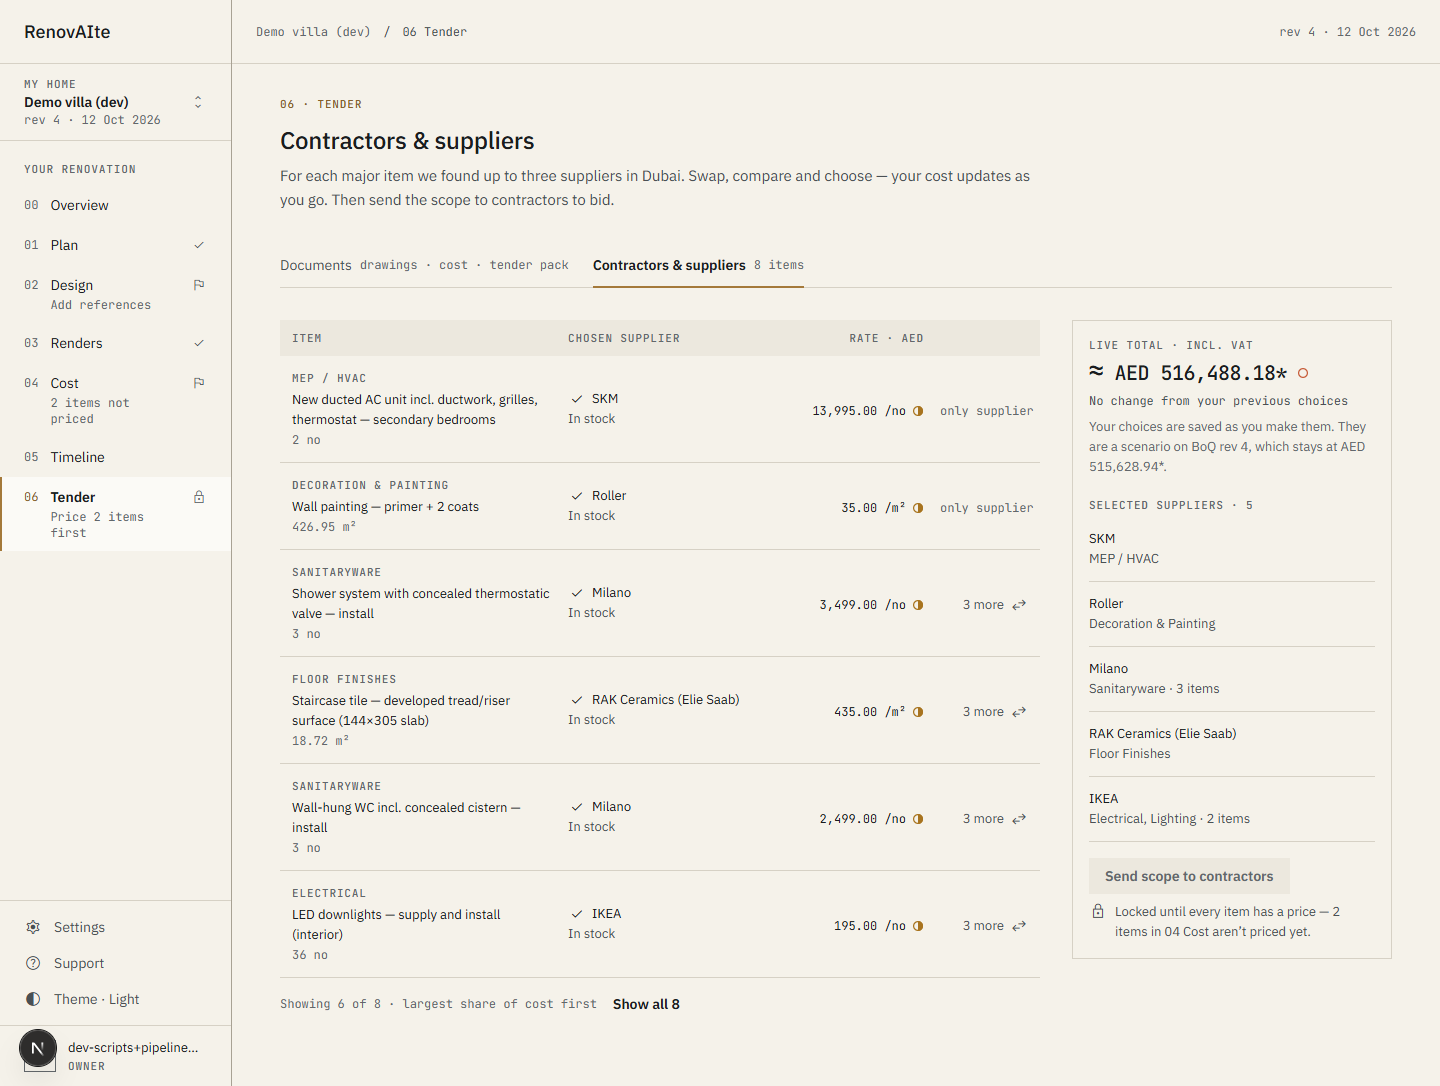
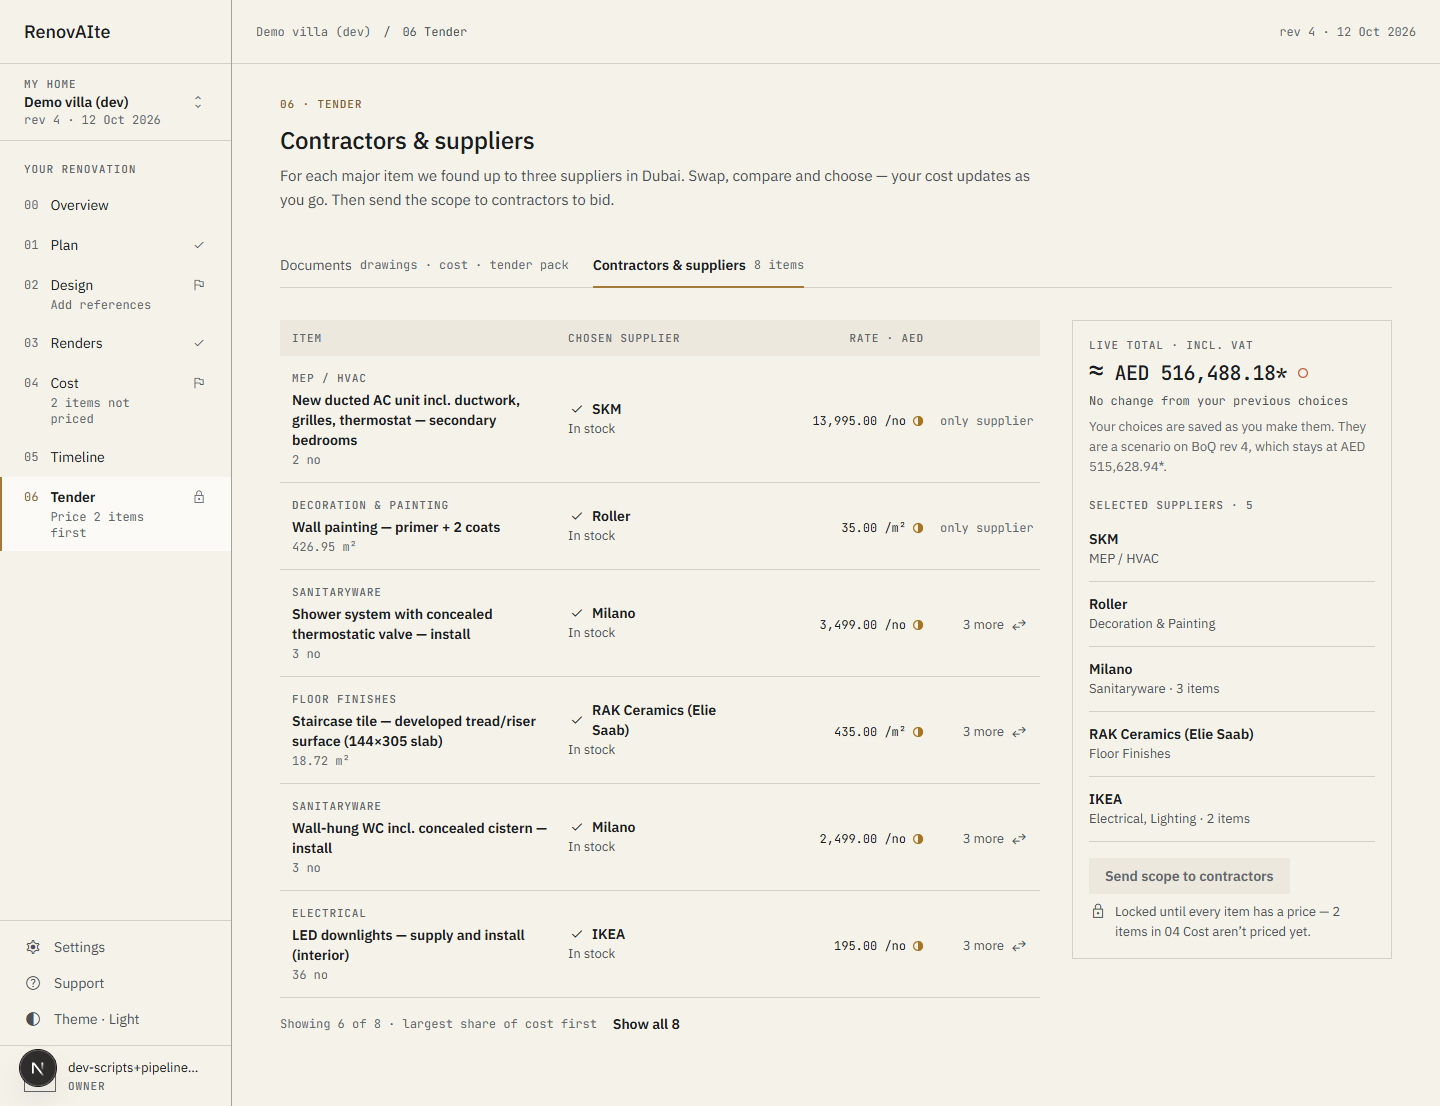
feat(firms): Rate books list from 63:1094 (K8 #10)
/firms for none or several firms: one row per firm the caller belongs
to — active entries, book reviewed, last quote import — and Create firm
in place. /firms leaves ATELIER_PENDING. Strong 14 px text on Blueprint
is .t-nav-item-active: .t-body-sm with font-semibold never rendered
bold (the type class is unlayered and wins).

diff --git a/components/blueprint/book/RateBooksList.tsx b/components/blueprint/book/RateBooksList.tsx
@@ -1,0 +1,162 @@
+"use client";
+
+// =============================================================================
+// components/blueprint/book/RateBooksList.tsx — /firms when the caller is in
+// more than one firm, or none (K8 #10, spec §6.8, Figma 63:1094). One row per
+// firm the caller belongs to (never anyone else's — /api/firms answers with
+// the caller's firms only): its book's active entries, whether it is reviewed,
+// and its last quote import. "Create firm" opens the form in place; the new
+// firm's book opens on creation.
+// =============================================================================
+
+import Link from "next/link";
+import { useRouter } from "next/navigation";
+import { useRef, useState } from "react";
+
+import { Button } from "../Button";
+import { StateBlock } from "../StateBlock";
+
+export interface RateBookRow {
+  id: string;
+  name: string;
+  entries: number;
+  /** "3 Oct 2026", or null while the book is a draft. */
+  reviewed: string | null;
+  /** "2 Oct 2026 · 12 lines", or null when no quote was imported. */
+  lastImport: string | null;
+}
+
+export function RateBooksList({ rows }: { rows: RateBookRow[] }) {
+  const router = useRouter();
+  const [creating, setCreating] = useState(rows.length === 0);
+  const [name, setName] = useState("");
+  const [error, setError] = useState<string | null>(null);
+  const [saving, setSaving] = useState(false);
+  const input = useRef<HTMLInputElement>(null);
+
+  async function create() {
+    const trimmed = name.trim();
+    if (!trimmed) {
+      setError("Give the firm a name.");
+      input.current?.focus();
+      return;
+    }
+    setSaving(true);
+    setError(null);
+    try {
+      const res = await fetch("/api/firms", { method: "POST", headers: { "content-type": "application/json" }, body: JSON.stringify({ name: trimmed }) });
+      const body = (await res.json().catch(() => ({}))) as { firm?: { id: string }; error?: string; code?: string };
+      if (!res.ok || !body.firm) {
+        setError(body.code === "conflict" ? `A firm named “${trimmed}” already exists.` : "The firm could not be created. Try again.");
+        return;
+      }
+      router.push(`/firms/${body.firm.id}`);
+    } finally {
+      setSaving(false);
+    }
+  }
+
+  return (
+    <div data-rate-books>
+      <div className="flex flex-wrap items-end justify-between gap-4">
+        <div>
+          <p className="t-label-caps text-bp-brass-text">RATE BOOKS</p>
+          <h1 className="t-heading-lg mt-2 text-bp-ink-primary">Your firms’ rate books</h1>
+          <p className="t-body-md mt-2 max-w-[720px] text-bp-ink-secondary">One book per firm. Its rates price that firm’s projects only, and reach a client as “contractor rate book” — never as the firm’s name.</p>
+        </div>
+        {!creating ? (
+          <Button
+            kind="secondary"
+            onClick={() => {
+              setCreating(true);
+              requestAnimationFrame(() => input.current?.focus());
+            }}
+          >
+            Create firm
+          </Button>
+        ) : null}
+      </div>
+
+      {creating ? (
+        <section aria-labelledby="create-h" className="mt-6 max-w-[720px] border border-bp-line-hairline p-4">
+          <h2 id="create-h" className="t-label-caps text-bp-ink-tertiary">
+            CREATE A FIRM
+          </h2>
+          <p className="t-body-sm mt-1 text-bp-ink-secondary">You become its first member. The name is yours to read — a client never sees it.</p>
+          <div className="mt-3 flex flex-wrap items-start gap-3">
+            <label className="min-w-[240px] flex-1">
+              <span className="t-label-md block text-bp-ink-secondary">Firm name</span>
+              <input
+                ref={input}
+                value={name}
+                onChange={(e) => setName(e.target.value)}
+                onKeyDown={(e) => e.key === "Enter" && create()}
+                aria-invalid={!!error}
+                aria-describedby={error ? "create-firm-error" : undefined}
+                className="t-body-sm mt-1 h-9 w-full rounded-none border border-bp-line-control bg-bp-surface-raised px-3 text-bp-ink-primary"
+              />
+            </label>
+            <div className="flex gap-3 pt-5">
+              <Button kind="primary" onClick={create} disabled={saving ? { reason: "Creating the firm…", reasonId: "create-firm-busy", showReason: true } : false}>
+                Create firm
+              </Button>
+              {rows.length ? (
+                <Button kind="quiet" onClick={() => setCreating(false)}>
+                  Cancel
+                </Button>
+              ) : null}
+            </div>
+          </div>
+          {error ? (
+            <p id="create-firm-error" role="alert" className="surface-inverse t-body-sm mt-3 bg-bp-alert-surface px-3 py-2 text-bp-alert-ink">
+              {error}
+            </p>
+          ) : null}
+        </section>
+      ) : null}
+
+      <div className="mt-7">
+        {rows.length === 0 ? (
+          <div className="max-w-[720px]">
+            <StateBlock kind="empty" icon="menu_book" title="You are not in a firm yet">
+              Create one above to keep your own rates. A firm’s book prices only its own projects.
+            </StateBlock>
+          </div>
+        ) : (
+          <div className="relative overflow-x-auto">
+            <table className="w-full min-w-[640px] border-collapse" data-testid="firm-list">
+              <thead>
+                <tr className="bg-bp-surface-sunken">
+                  <th scope="col" className="t-label-caps px-3 py-2.5 text-left font-normal text-bp-ink-tertiary">FIRM</th>
+                  <th scope="col" className="t-label-caps px-3 py-2.5 text-right font-normal text-bp-ink-tertiary">ENTRIES</th>
+                  <th scope="col" className="t-label-caps px-3 py-2.5 text-left font-normal text-bp-ink-tertiary">BOOK REVIEWED</th>
+                  <th scope="col" className="t-label-caps px-3 py-2.5 text-left font-normal text-bp-ink-tertiary">LAST QUOTE IMPORT</th>
+                  <th scope="col" className="px-3 py-2.5">
+                    <span className="sr-only">Open</span>
+                  </th>
+                </tr>
+              </thead>
+              <tbody>
+                {rows.map((r) => (
+                  <tr key={r.id} className="border-b border-bp-line-hairline">
+                    <th scope="row" className="t-nav-item-active px-3 py-3 text-left text-bp-ink-primary">
+                      {r.name}
+                    </th>
+                    <td className="t-num-sm px-3 py-3 text-right text-bp-ink-primary">{r.entries.toLocaleString("en-US")}</td>
+                    <td className={`t-body-sm px-3 py-3 ${r.reviewed ? "text-bp-ink-primary" : "text-bp-ink-tertiary"}`}>{r.reviewed ?? "Not reviewed"}</td>
+                    <td className={`t-body-sm px-3 py-3 ${r.lastImport ? "text-bp-ink-primary" : "text-bp-ink-tertiary"}`}>{r.lastImport ?? "—"}</td>
+                    <td className="px-3 py-3 text-right">
+                      <Link href={`/firms/${r.id}`} className="t-body-sm text-bp-ink-primary underline-offset-4 hover:underline">
+                        Open<span className="sr-only"> {r.name}’s rate book</span>
+                      </Link>
+                    </td>
+                  </tr>
+                ))}
+              </tbody>
+            </table>
+          </div>
+        )}
+      </div>
+    </div>
+  );
+}

diff --git a/app/firms/page.tsx b/app/firms/page.tsx
@@ -2,46 +2,62 @@ import type { SupabaseClient } from "@supabase/supabase-js";
 
 import { redirect } from "next/navigation";
 
-import { AtelierCanvas } from "@/components/blueprint/shell/AtelierCanvas";
+import { RateBooksList, type RateBookRow } from "@/components/blueprint/book/RateBooksList";
 import { AccountShell } from "@/components/blueprint/shell/ProjectShell";
+import { revDate } from "@/components/blueprint/shell/rev-line";
 import { getCaller } from "@/lib/auth/caller";
-import { listFirms, type Firm } from "@/lib/firms/store";
+import { getFirmSummary, listFirms, type Firm } from "@/lib/firms/store";
 import { getSupabaseAdmin } from "@/lib/supabase-admin";
 
-import { FirmList } from "./_components/firm-list";
 import { SignInCard } from "./_components/sign-in-card";
 
 export const dynamic = "force-dynamic";
 
-// U2 — /firms: the caller's firms (never anyone else's) and a way to create one.
-// A signed-out visitor sees a sign-in card, not a redirect: there is no
-// middleware in this app (docs/AUTH.md), and a page that renders nothing
-// useful is worse than one that says why.
+// /firms — the caller's firms (never anyone else's).
 //
-// K2 (spec §3.10): /firms folds into the firm switcher — a member of exactly
-// one firm goes straight to its book; the list stays for none (create one)
-// or several.
+// K2 (spec §3.10): a member of exactly one firm goes straight to its book; the
+// list stays for none (create one) or several. K8 #10 (spec §6.8, 63:1094):
+// the list is Blueprint — each firm's active entries, its review state and
+// its last quote import. A signed-out visit is turned away by the proxy; the
+// sign-in card is the backstop.
 export default async function FirmsPage() {
   const caller = await getCaller();
+  const db = getSupabaseAdmin() as unknown as SupabaseClient;
   let firms: Firm[] = [];
-  if (caller) firms = await listFirms(getSupabaseAdmin() as unknown as SupabaseClient, caller);
+  if (caller) firms = await listFirms(db, caller);
   if (firms.length === 1) redirect(`/firms/${firms[0]!.id}`);
+
+  const rows: RateBookRow[] = await Promise.all(
+    firms.map(async (f) => {
+      const [summary, lastQuote] = await Promise.all([
+        getFirmSummary(db, f.id, caller),
+        db
+          .from("firm_quotes")
+          .select("id, created_at")
+          .eq("firm_id", f.id)
+          .order("created_at", { ascending: false })
+          .limit(1)
+          .maybeSingle<{ id: string; created_at: string }>()
+          .then((r) => r.data, () => null),
+      ]);
+      let lastImport: string | null = null;
+      if (lastQuote) {
+        const { count } = await db.from("firm_quote_lines").select("id", { count: "exact", head: true }).eq("quote_id", lastQuote.id);
+        lastImport = `${revDate(lastQuote.created_at)}${count != null ? ` · ${count} line${count === 1 ? "" : "s"}` : ""}`;
+      }
+      return {
+        id: f.id,
+        name: f.name,
+        entries: summary.entry_count,
+        reviewed: summary.status === "reviewed" && summary.reviewed_at ? revDate(summary.reviewed_at) : null,
+        lastImport,
+      };
+    }),
+  );
+
   return (
     <AccountShell>
-      <AtelierCanvas>
-      <div className="mx-auto max-w-4xl">
-        <header className="mb-lg">
-          <p className="label-caps text-ink-500">Firms</p>
-          <h1 className="font-display text-headline-lg text-ink-900">Rate books</h1>
-          <p className="mt-xs max-w-[672px] text-body-md text-ink-700">
-            A firm&rsquo;s private book shadows the market reference for that firm&rsquo;s projects only. Its rates reach a BoQ line as
-            &ldquo;contractor rate book&rdquo; — never as the firm&rsquo;s name — and its overheads &amp; profit are applied once, as a
-            visible line, never inside a rate.
-          </p>
-        </header>
-        {caller ? <FirmList initialFirms={firms} callerEmail={caller.email} /> : <SignInCard what="your firms" />}
-      </div>
-      </AtelierCanvas>
+      <div className="mx-auto max-w-[1344px] px-6 pb-16 pt-8 lg:px-12">{caller ? <RateBooksList rows={rows} /> : <SignInCard what="your firms" />}</div>
     </AccountShell>
   );
 }

diff --git a/components/blueprint/tender/Suppliers.tsx b/components/blueprint/tender/Suppliers.tsx
@@ -181,13 +181,13 @@ export function Suppliers({
                 <div className="grid grid-cols-[minmax(0,1fr)_auto] items-center gap-x-4 gap-y-2 px-3 py-3.5 lg:grid-cols-[minmax(0,1fr)_180px_160px_88px]">
                   <div className="col-span-2 lg:col-span-1">
                     <p className="t-label-caps text-bp-ink-tertiary">{l.work_section}</p>
-                    <p className="t-body-sm mt-1 font-semibold text-bp-ink-primary">{l.description}</p>
+                    <p className="t-nav-item-active mt-1 text-bp-ink-primary">{l.description}</p>
                     <p className="t-num-sm mt-0.5 text-bp-ink-tertiary">
                       {formatQty(l.quantity)} {displayUnit(l.unit)}
                     </p>
                   </div>
                   <div>
-                    <p className="t-body-sm flex items-center gap-1.5 font-semibold text-bp-ink-primary">
+                    <p className="t-nav-item-active flex items-center gap-1.5 text-bp-ink-primary">
                       <Icon name="check" className="text-[18px]" />
                       <span className="sr-only">Chosen: </span>
                       {supplierName(o)}
@@ -286,7 +286,7 @@ export function Suppliers({
             return (
               <li key={g.name} className="flex items-start gap-3 border-b border-bp-line-hairline py-3">
                 <span className="min-w-0 flex-1">
-                  <span className="t-body-sm block font-semibold text-bp-ink-primary">{g.name}</span>
+                  <span className="t-nav-item-active block text-bp-ink-primary">{g.name}</span>
                   <span className="t-body-sm block text-bp-ink-secondary">
                     {g.sections.join(", ")}
                     {g.lines.length > 1 ? ` · ${g.lines.length} items` : ""}
@@ -329,7 +329,7 @@ export function Suppliers({
         </div>
         {sent ? (
           <div ref={sentRef} tabIndex={-1} role="status" className="mt-4 bg-bp-surface-sunken p-3" data-send-scope>
-            <p className="t-body-sm font-semibold text-bp-ink-primary">Your scope is ready to share</p>
+            <p className="t-nav-item-active text-bp-ink-primary">Your scope is ready to share</p>
             <p className="t-body-sm mt-1 text-bp-ink-secondary">
               Download the tender pack and send it to the contractors you choose — it is built to be bid against as it stands. Inviting contractors from RenovAIte is not built yet.
             </p>

diff --git a/components/blueprint/documents/DocumentsExport.tsx b/components/blueprint/documents/DocumentsExport.tsx
@@ -220,7 +220,7 @@ export function DocumentsExport({ projectId, rev, checkedAt, initial, initialPro
           </div>
           {job?.status === "failed" ? (
             <div className="surface-inverse mt-4 bg-bp-alert-surface px-4 py-3 text-bp-alert-ink" data-pack-failed role="alert">
-              <p className="t-body-sm font-semibold">
+              <p className="t-nav-item-active">
                 {job.failed_checks.length > 0
                   ? `The export ran, but ${job.failed_checks.length} check${job.failed_checks.length === 1 ? "" : "s"} on the printed documents failed — nothing was released.`
                   : "The export did not complete — nothing was released."}

diff --git a/lib/__tests__/route-scan.test.ts b/lib/__tests__/route-scan.test.ts
@@ -108,7 +108,6 @@ function atelierUse(entry: string): string[] {
  */
 const ATELIER_PENDING: Record<string, string> = {
 
-  "/firms": "#10 Rate books list (63:1094)",
   "/project/new": "#12 intake → Reading your plan (63:4510) — the plot-size fields",
   "/project/[id]/plan": "plan editor canvas internals + garden panel (24:814 — K5 restyled only the chrome)",
   "/project/[id]/drawings": "the plan editor's read mode on 06 Documents (same canvas internals as /plan)",

diff --git a/lib/firms/__tests__/page-privacy.test.ts b/lib/firms/__tests__/page-privacy.test.ts
@@ -65,7 +65,7 @@ describe("the branding panel (L4)", () => {
 });
 
 describe("the firm list", () => {
-  const src = read("app/firms/_components/firm-list.tsx");
+  const src = read("components/blueprint/book/RateBooksList.tsx");
   it("only calls /api/firms (which answers with the caller's firms)", () => {
     const urls = [...src.matchAll(/fetch\(\s*(`[^`]*`|"[^"]*"|'[^']*')/g)].map((m) => m[1]!.slice(1, -1));
     expect(urls).toEqual(["/api/firms"]);
